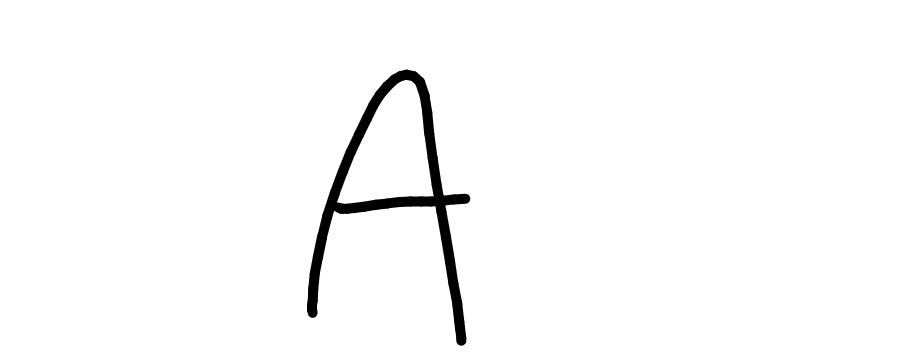
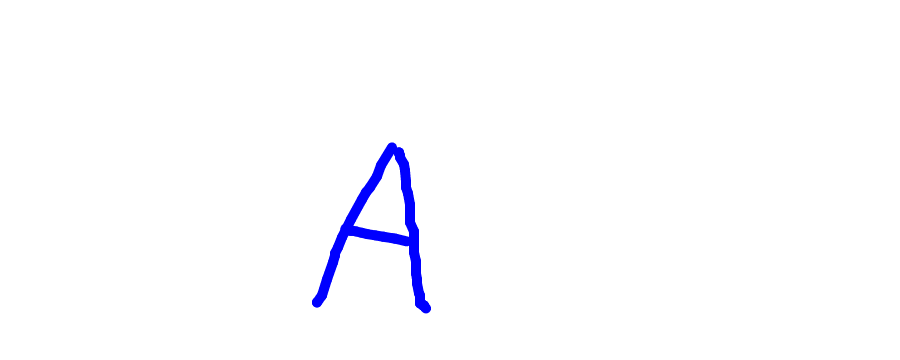
- Completed website design

Changed region(s): [[0.3422, 0.1833, 0.5289, 0.9778]]

diff --git a/src/Website/static/js/canvas.js b/src/Website/static/js/canvas.js
@@ -21,9 +21,10 @@ window.addEventListener('load', () => {
     }
     function draw(e){
         if(!painting) return;
-        ctx.lineWidth = 10;
+        ctx.lineWidth = document.getElementById('selWidth').value;
         ctx.lineCap = "round";
-
+        const color = document.getElementById('selColor').value;
+        ctx.strokeStyle = color;
         ctx.lineTo(e.clientX-widthOffset, e.clientY-heightOffset);
         ctx.stroke();
         ctx.beginPath()

diff --git a/src/Website/templates/index.html b/src/Website/templates/index.html
@@ -116,8 +116,8 @@
                   </p>
                </form>
                {% if outputLetter %}
-               <div>
-                  <img src="{{ inputImage }}" height="300px" width="300px" alt="input image"/>
+               <div class="input">
+                  <img id="inputImage" src="{{ inputImage }}" height="300px" width="300px" alt="input image"/>
                   <table>
                      <thead>
                         <tr>

diff --git a/src/Website/static/css/style.css b/src/Website/static/css/style.css
@@ -47,10 +47,10 @@ input[type="text"]{
 
 
 table{
-    width: 30%;
+    width: 50%;
     float: right;
-    margin-right: 200px;
-    margin-left: -200px;
+    margin-right: 40px;
+    margin-left: -100px;
     margin-top: 50px;
     background-color: white;
 }
@@ -132,5 +132,10 @@ img{
 li {
     font-size: 30px;
     color: red;
+}
+
+#inputImage {
+    margin-top: 20px;
+    margin-left: -100px;
 }
 

diff --git a/src/Website/templates/drawing.html b/src/Website/templates/drawing.html
@@ -26,7 +26,6 @@
             <option value="blue">blue</option>
             <option value="red">red</option>
             <option value="green">green</option>
-            <option value="yellow">yellow</option>
             <option value="gray">gray</option>
          </select>
       </div>
